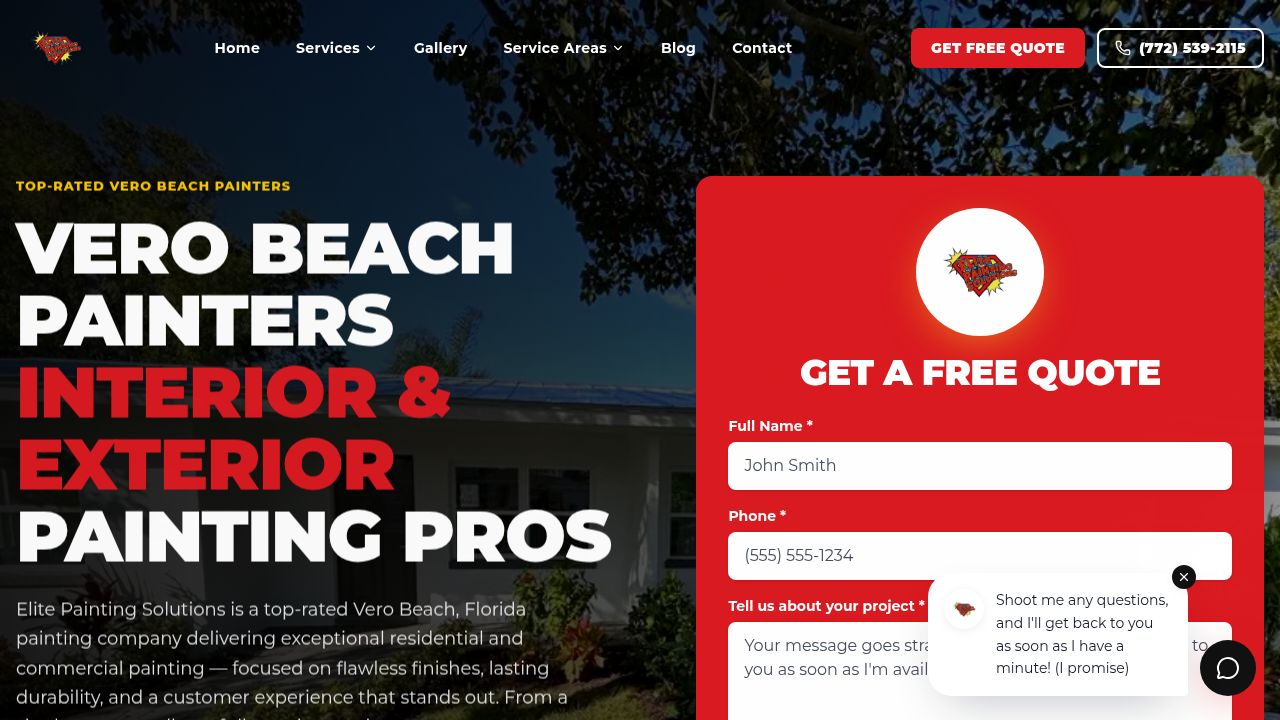
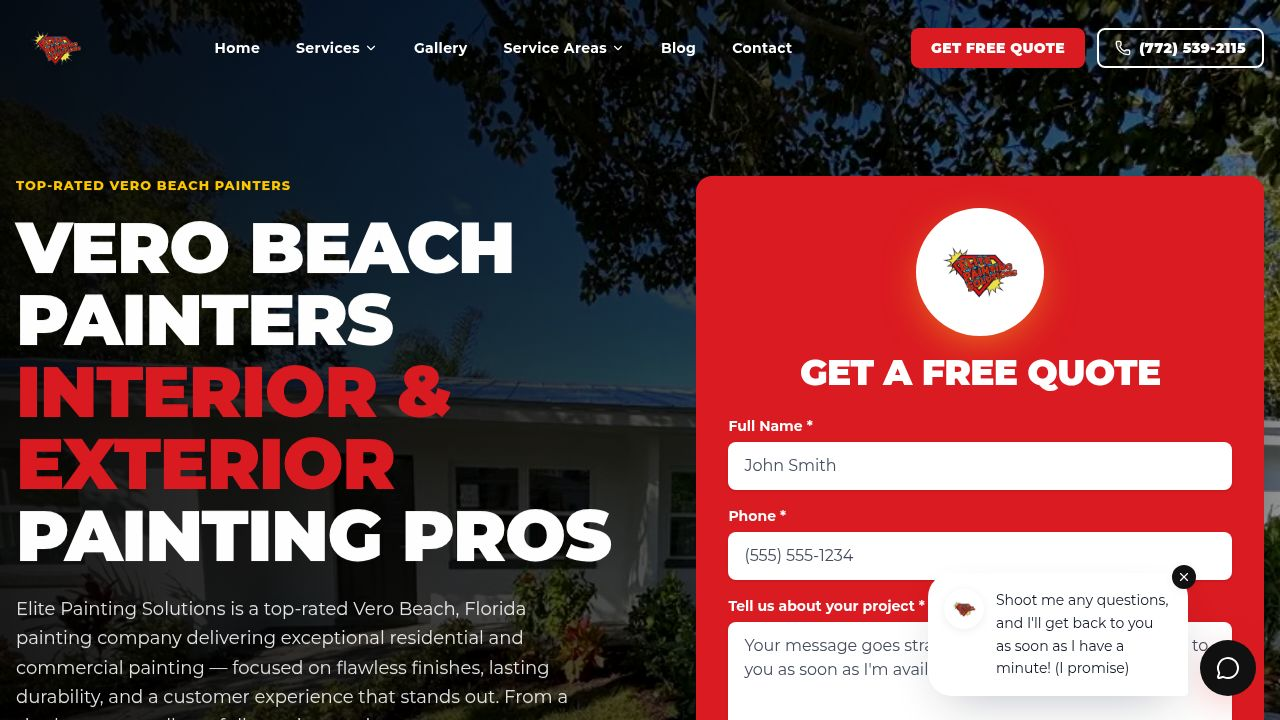
Improve mobile chat experience, update cabinet photo, and add ceiling services
Enhance mobile chat UI with improved centering and FAB behavior, replace the cabinet refinishing service image, and introduce a new "Ceiling Services" offering with dedicated data and routing.

Replit-Commit-Author: Agent
Replit-Commit-Session-Id: 073f9214-63d0-4634-982a-858b7717a08b
Replit-Commit-Checkpoint-Type: full_checkpoint
Replit-Commit-Event-Id: 235c2858-339c-4f09-abe1-ca0dd240fbc1
Replit-Commit-Screenshot-Url: https://storage.googleapis.com/screenshot-production-us-central1/0e6348f2-305d-4649-ba7f-f5d85b50ff9d/073f9214-63d0-4634-982a-858b7717a08b/N4adA3u
Replit-Helium-Checkpoint-Created: true

diff --git a/artifacts/painting-site/src/components/ChatBubble.tsx b/artifacts/painting-site/src/components/ChatBubble.tsx
@@ -90,7 +90,13 @@ export const ChatBubble = () => {
   };
 
   return (
-    <div className="fixed bottom-4 right-4 z-40 flex items-end gap-2 sm:bottom-6 sm:right-6 sm:gap-3">
+    <div
+      className={`fixed z-40 flex gap-2 sm:bottom-6 sm:right-6 sm:left-auto sm:flex-row sm:items-end sm:gap-3 ${
+        open
+          ? "inset-x-3 bottom-3 flex-col items-stretch sm:inset-auto"
+          : "bottom-4 right-4 items-end"
+      }`}
+    >
       {!open && showTeaser && (
         <div className="relative hidden max-w-[260px] rounded-2xl rounded-br-sm bg-card p-4 shadow-elegant animate-scale-in sm:block">
           <button
@@ -116,7 +122,7 @@ export const ChatBubble = () => {
       )}
 
       {open && (
-        <div className="flex w-[340px] max-w-[calc(100vw-3rem)] flex-col overflow-hidden rounded-2xl bg-card shadow-elegant animate-scale-in sm:w-[380px]">
+        <div className="flex w-full flex-col overflow-hidden rounded-2xl bg-card shadow-elegant animate-scale-in sm:w-[380px]">
           <div className="flex items-center justify-between gap-3 bg-[#111] px-4 py-3 text-white">
             <div className="flex items-center gap-3">
               <div className="flex h-9 w-9 shrink-0 items-center justify-center overflow-hidden rounded-full bg-white p-0.5">
@@ -198,7 +204,9 @@ export const ChatBubble = () => {
 
       <button
         onClick={() => setOpen((v) => !v)}
-        className="flex h-14 w-14 items-center justify-center rounded-full bg-[#111] text-white shadow-glow transition-smooth hover:scale-110 hover:bg-primary"
+        className={`h-14 w-14 items-center justify-center self-end rounded-full bg-[#111] text-white shadow-glow transition-smooth hover:scale-110 hover:bg-primary sm:flex ${
+          open ? "hidden" : "flex"
+        }`}
         aria-label={open ? "Close chat" : "Open chat"}
       >
         {open ? <X className="h-6 w-6" /> : <MessageCircle className="h-6 w-6" />}

diff --git a/artifacts/painting-site/src/data/site.ts b/artifacts/painting-site/src/data/site.ts
@@ -18,6 +18,7 @@ export const navServices = [
   { label: "Cabinet Refinishing", href: "/services/cabinet-refinishing", slug: "cabinet-refinishing" },
   { label: "Commercial Painting", href: "/services/commercial-painting", slug: "commercial-painting" },
   { label: "Pressure Washing", href: "/services/pressure-washing", slug: "pressure-washing" },
+  { label: "Ceiling Services", href: "/services/ceiling-services", slug: "ceiling-services" },
 ];
 
 export const navAreas = [
@@ -106,6 +107,22 @@ export const services = [
       "Mildew, algae, and dirt removal",
       "Professional-grade equipment",
       "Standalone service or paired with painting",
+    ],
+  },
+  {
+    title: "Ceiling Services",
+    slug: "ceiling-services",
+    description:
+      "Popcorn ceiling removal, ceiling repair, and smooth ceiling repaints — modernize any room from the top down.",
+    href: "/services/ceiling-services",
+    long:
+      "Outdated popcorn (acoustic) ceilings make a room feel old and dingy. We safely scrape and remove popcorn texture, repair drywall imperfections, skim-coat to a smooth finish, and repaint with a flat ceiling-grade paint that hides shadows and roller marks. Florida humidity also stains ceilings — we handle water-stain blocking, mildew treatment, and full ceiling repaints in any room.",
+    bullets: [
+      "Popcorn / acoustic ceiling removal and disposal",
+      "Drywall repair, skim-coat, and smooth refinishing",
+      "Water-stain blocking and mildew treatment",
+      "Knockdown, orange-peel, or smooth texture finishes",
+      "Flat ceiling-grade paint that hides imperfections",
     ],
   },
 ];

diff --git a/artifacts/painting-site/src/components/sections/Services.tsx b/artifacts/painting-site/src/components/sections/Services.tsx
@@ -5,9 +5,10 @@ import { Link } from "react-router-dom";
 const serviceImages: Record<string, string> = {
   "interior-painting": "/gallery/softening-color.webp",
   "exterior-painting": "/gallery/beautiful-new-look.webp",
-  "cabinet-refinishing": "/gallery/finished-product.webp",
+  "cabinet-refinishing": "/gallery/cabinet-kitchen.png",
   "commercial-painting": "/gallery/how-we-do-it.webp",
   "pressure-washing": "/gallery/i-like-it.webp",
+  "ceiling-services": "/gallery/ceiling-popcorn.png",
 };
 
 export const Services = () => {
